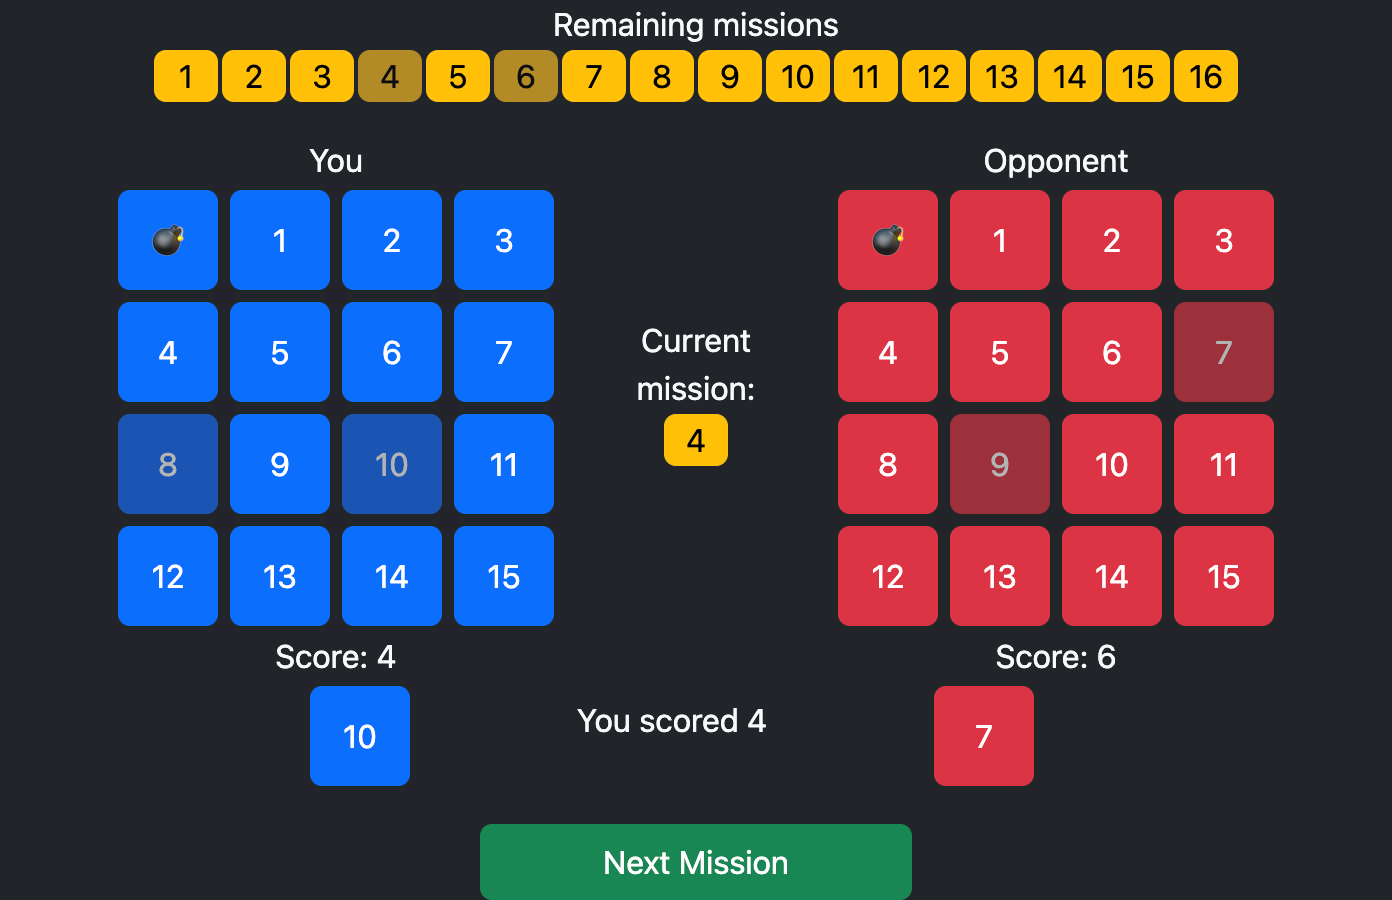
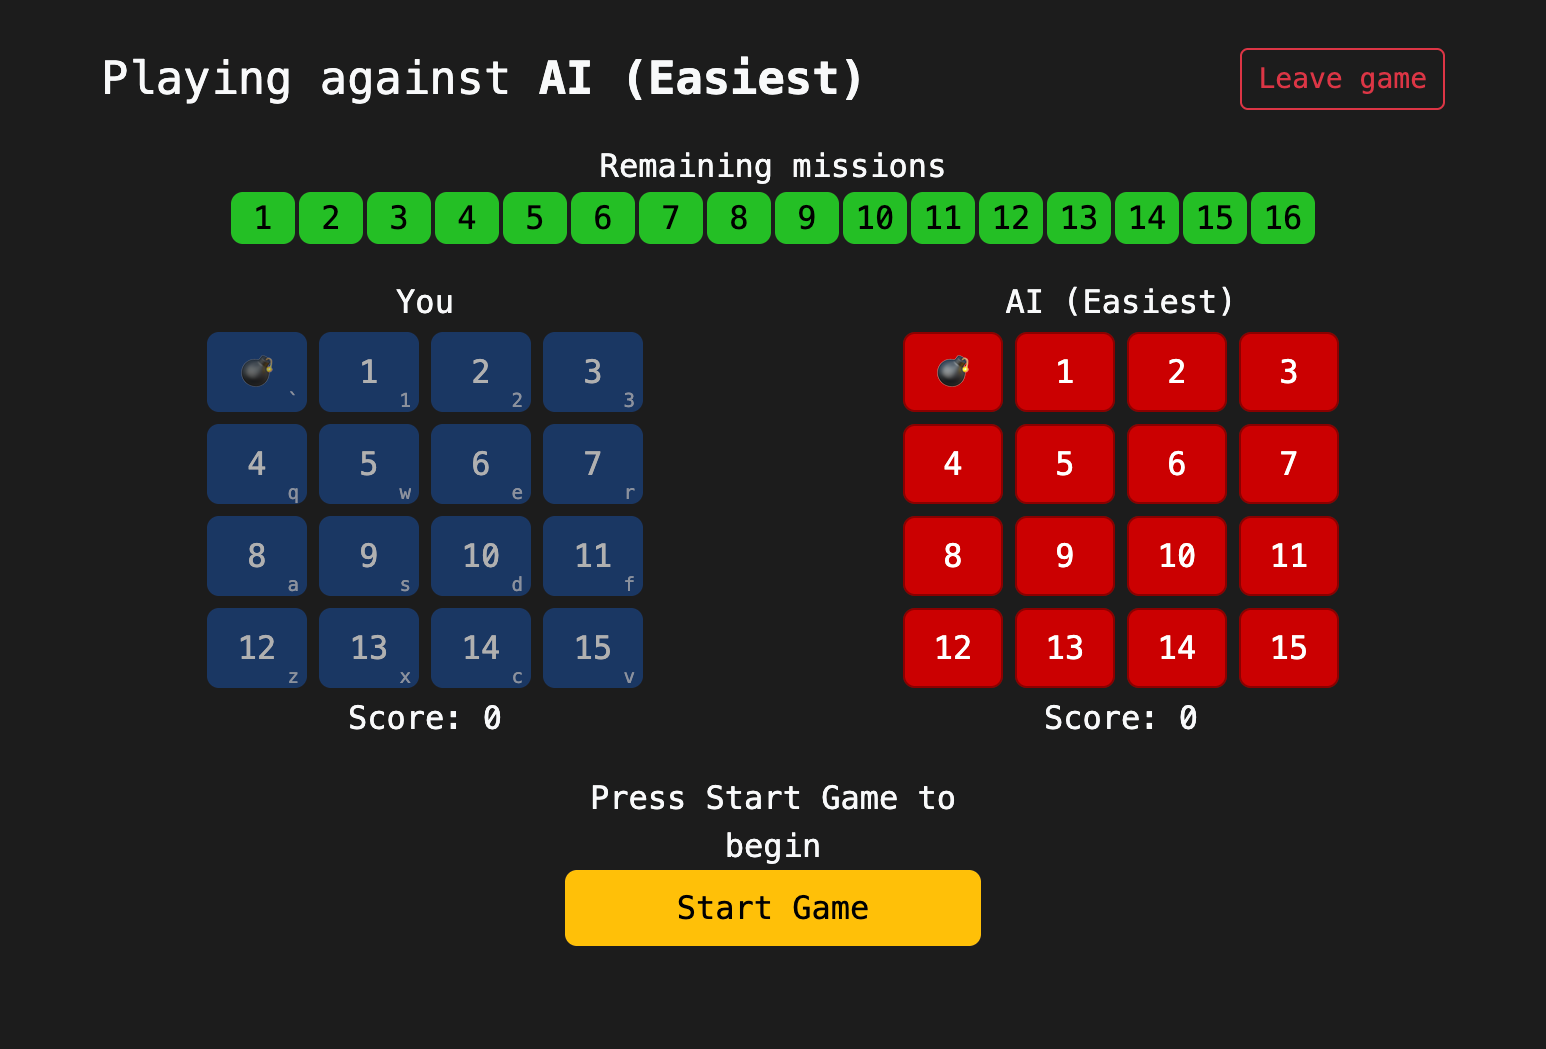
docs

diff --git a/AGENTS.md b/AGENTS.md
@@ -26,9 +26,10 @@ Run with
 
 ## Out-of-scope
 
-There will be no database on the backend. Any persistence between user
-sessions, user statistics and game history, etc. must be done via the
-frontend.
+There will be no database in the main game engine or webserver. However,
+individual `Player` instances may use external resources such as
+databases or files. In particular, human players who play through a web
+browser may store persistent information in browser storage. 
 
 ## Creating a new AI player
 
@@ -37,4 +38,13 @@ All new players need to implement the abstract class
 method, which decides on a card to play given the current state of the
 game, which is entirely captured in the `Spymaster` class. The engine
 always presents the game to the player as though they are sitting in the
-White seat (the game is symmetric in both players).
+White seat (the game is symmetric in both players). The `Player`
+implementation may also implement the `.receive` method which responds
+to the result of the previous round.
+
+The `Spymaster` class contains full information about the current game
+state (current mission, remaining missions in unspecified order, 
+the cards that each player holds, the current score, and the history up
+until the current point. The player may use any of this information, as
+well as any other resources it wants (such as memories about its
+opponent or from previous games) to decide what to play.

diff --git a/README.md b/README.md
@@ -4,15 +4,17 @@ J. M. F. Tsang (j.m.f.tsang@cantab.net)
 
 ---
 
-This is a remake of Richard Bartle's game 
-[Spymaster](https://www.youhaventlived.com/spymaster/), rewritten with a
-Python backend. 
+Play now: https://spymaster.fastapicloud.dev/
 
-Spymaster is based on [Goofspiel](https://en.wikipedia.org/wiki/Goofspiel),
-a classic game of bluffing and double-bluffing.
+This is a remake of Richard Bartle's game [Spymaster][bartle], rewritten
+with a Python backend, a modernized frontend, and the ability to define
+custom AI players. 
 
-It's my attempt at writing a multiplayer browser game. 
+Spymaster is based on [Goofspiel][goofspiel], a classic game of bluffing
+and double-bluffing. Read [the rules](HowToPlay.md) for instructions.
 
+[bartle]: https://www.youhaventlived.com/spymaster/
+[goofspiel]: https://en.wikipedia.org/wiki/Goofspiel
 
 ## Usage
 
